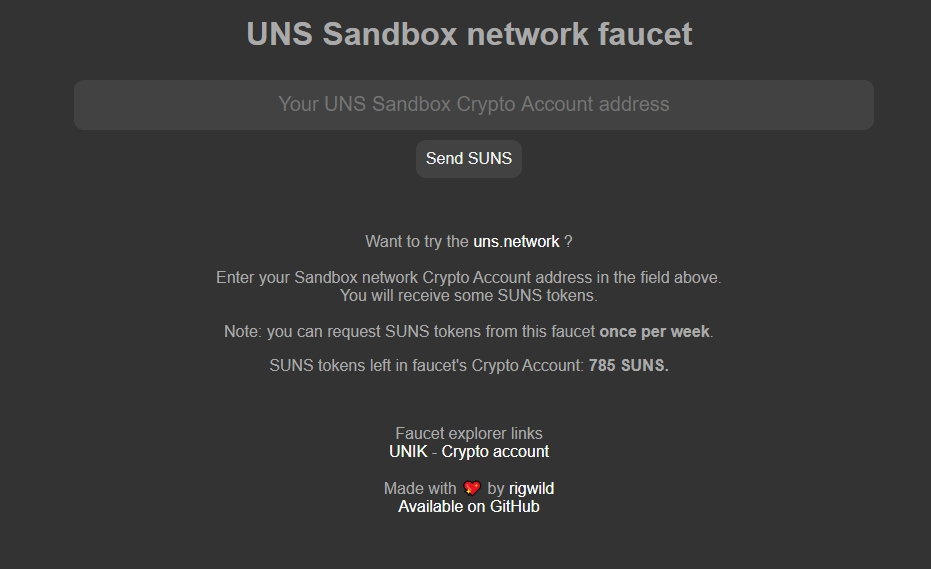
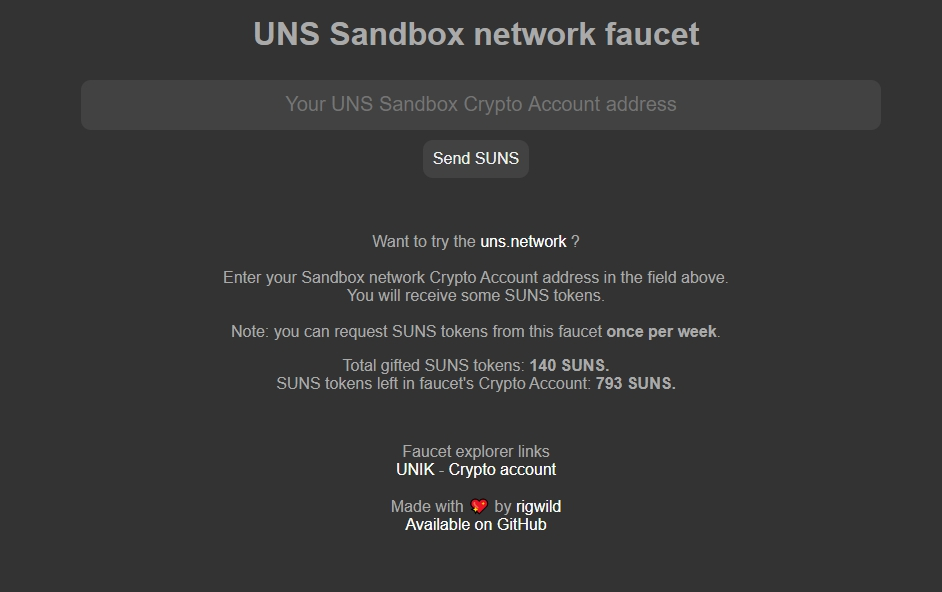
Added total gifted tokens

diff --git a/src/index.ts b/src/index.ts
@@ -3,7 +3,7 @@ import express from 'express'
 
 import { SERVER_PORT, GIFT_AMOUNT, GIFT_FEE, GIFT_VENDORFIELD } from './config'
 import { Database } from './db'
-import { send, initCrypto } from './lib'
+import { send, initCrypto, getWalletTokensAmount } from './lib'
 
 const app = express()
 app.set('trust proxy', true)
@@ -16,7 +16,7 @@ app.post('/gift', async (req, res) => {
   try {
     res.set('Content-Type', 'application/json')
 
-    const outAddress = req.query.address
+    const outAddress = req.query.walletAddress
 
     if (!outAddress) throw new Error('You must pass an UNS wallet address.')
 
@@ -25,9 +25,27 @@ app.post('/gift', async (req, res) => {
     const sendResult = await send(outAddress, GIFT_AMOUNT, GIFT_FEE, GIFT_VENDORFIELD)
     Database.add({ address: outAddress, amount: GIFT_AMOUNT, ip: req.ip, timestamp: new Date() })
 
-    res.json({ data: sendResult })
+    res.json(sendResult)
+    // res.json({
+    //   data: {
[2 lines of base64/hex data omitted]
+    //     excess: [],
+    //     invalid: []
+    //   }
+    // })
   } catch (error) {
     res.status(409).json({ error: error.message })
+  }
+})
+
+// Get SUNS tokens amount left
+app.get('/tokensLeft', async (req, res) => {
+  try {
+    res.set('Content-Type', 'application/json')
+    res.json({ data: await getWalletTokensAmount() })
+  } catch (error) {
+    res.status(500).json({ error: error.message })
   }
 })
 

diff --git a/src/lib.ts b/src/lib.ts
@@ -103,3 +103,10 @@ export const send = async (
   fee = `${0.01 * 1e8}`,
   vendorField?: string
 ) => signTransaction(receiverAddress, amount, fee, vendorField).then(res => sendTransaction(res))
+
+/** Get remaining tokens amount in faucet's wallet (in SUNS) */
+export const getWalletTokensAmount = async () => {
+  const walletData = await unsClient.wallet.get(Identities.Address.fromPassphrase(PASSPHRASE))
+  if (walletData.data) return walletData.data.balance / 1e8
+  return -1
+}

diff --git a/public/index.html b/public/index.html
@@ -33,6 +33,7 @@
           </p>
 
           <p>
+            Gifted SUNS tokens: <b>{{ giftedTokensTotal }} SUNS.</b><br>
             SUNS tokens left in faucet's Crypto Account: <b>{{ remainingTokens }} SUNS.</b>
           </p>
         </div>
